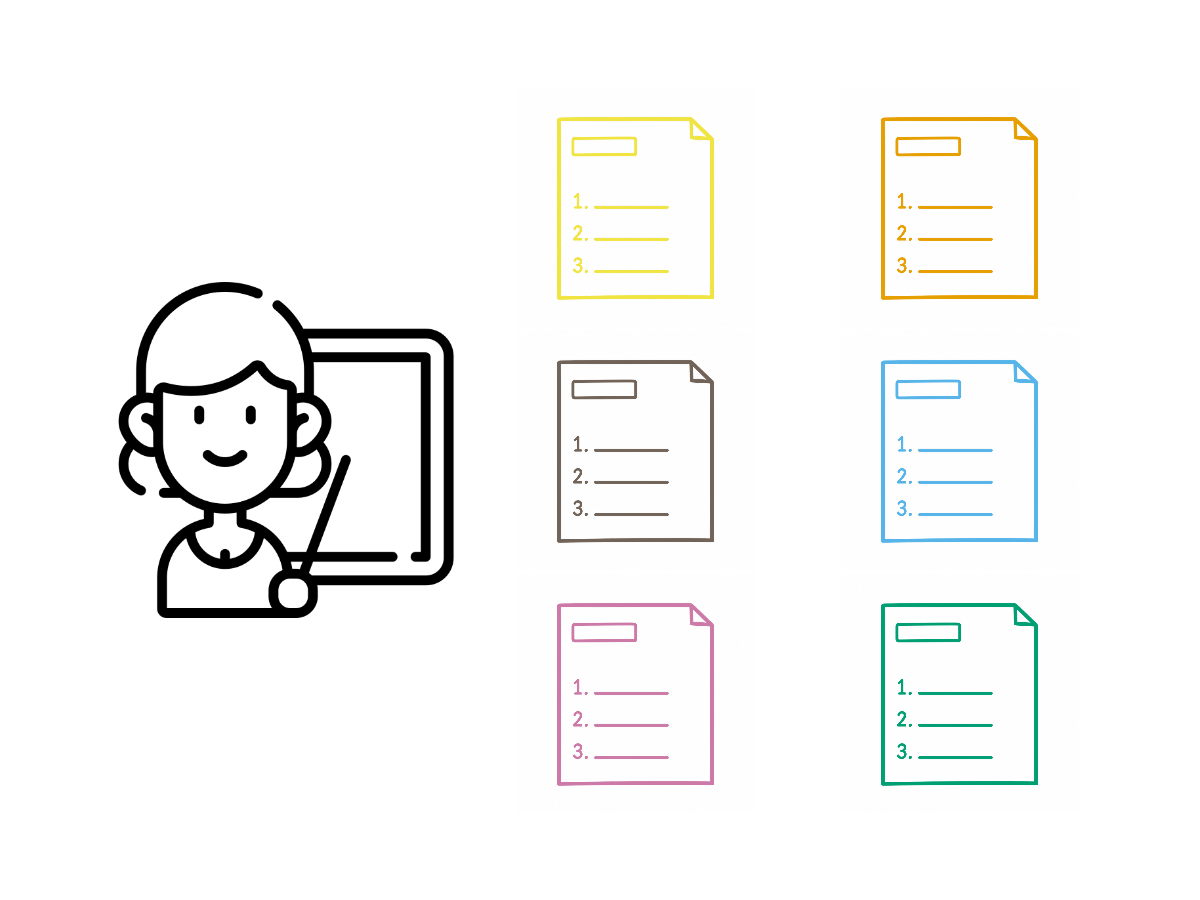
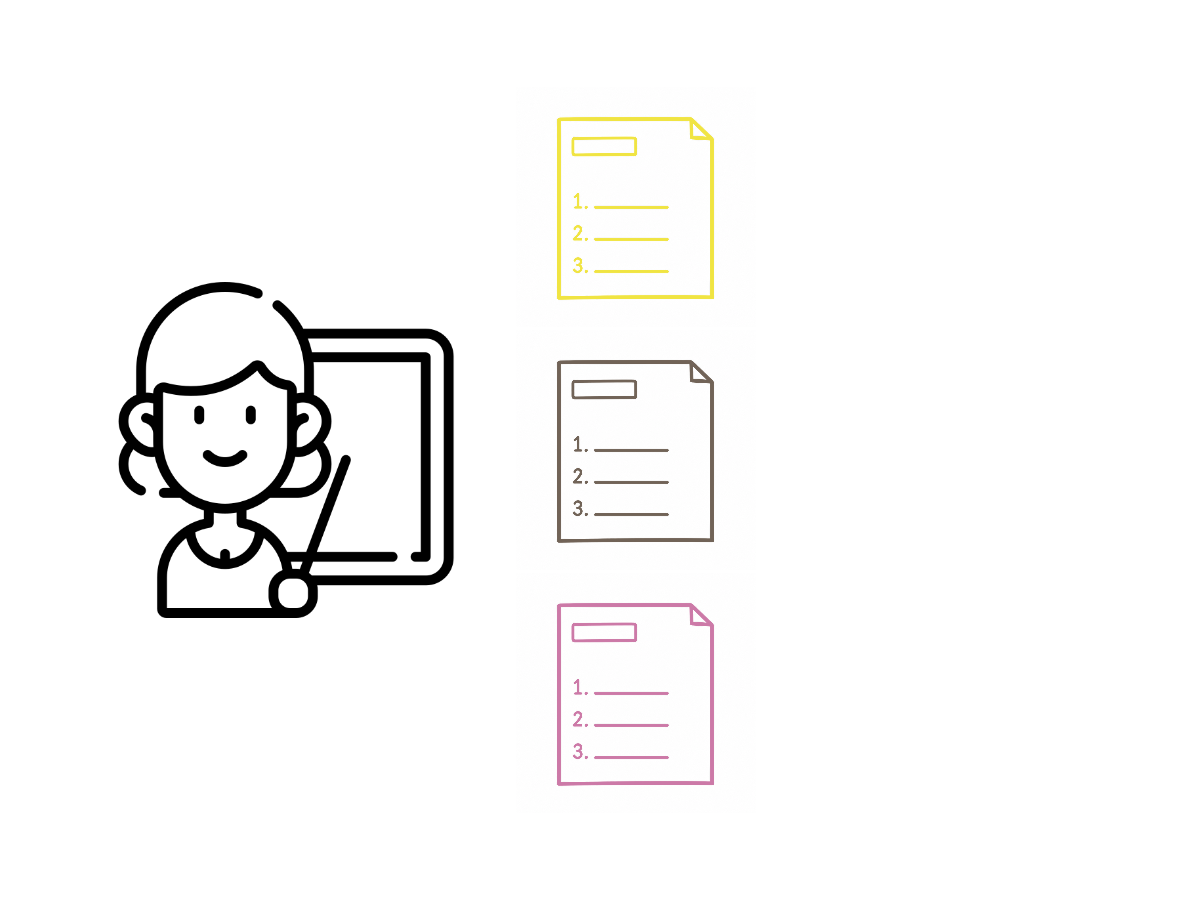
pilot debug

diff --git a/Exp3/index.html b/Exp3/index.html
@@ -407,6 +407,21 @@
       }
     }
 
+
+    /* More room for text on mobile */
+    @media (max-width: 600px) {
+      :root {
+        --text-h: clamp(200px, 35dvh, 260px);
+        --image-h: clamp(110px, 23dvh, 180px);
+      }
+
+      .jspsych-content.norming-stage .context-text-line {
+        font-size: 14px !important;
+        line-height: 1.3 !important;
+        margin: 2px 0 !important;
+      }
+    }
+
   </style>
 
   </head>
@@ -423,6 +438,7 @@
           params: {
             experiment_id: "SF89u8zNJw0i",
             filename: () => `Exp3_${subject_id}.csv`,
+            stream: false,
             wait_message: `
               <p>실험 응답을 저장하고 있습니다.</p>
               <p>창을 닫지 말아 주세요.</p>
@@ -1006,7 +1022,7 @@
             연구에 참여하지 않거나 참여 도중 중단하더라도 어떠한 불이익도 없습니다.
           </p>
           <p style="text-align:center;"><strong>소요 시간</strong></p>
-            <p>약 10분이 소요될 예정입니다.</p>
+            <p>약 5-10분이 소요될 예정입니다.</p>
           <p style="text-align:center;"><strong>참여 보상</strong></p>
           <p>
             연구 참여에 대한 보상으로 2,000원을 지급해 드립니다.
@@ -1276,7 +1292,7 @@
         "그런 다음 교실을 한 번 둘러본 뒤,",
         "전등을 끄고,",
         "의자를 책상 아래에 넣고",
-        "교실 문도 닫았다."
+        "문도 닫았다."
       ],
       images: [
         "stims/PRACTICE/practice_classroom_0.png",
